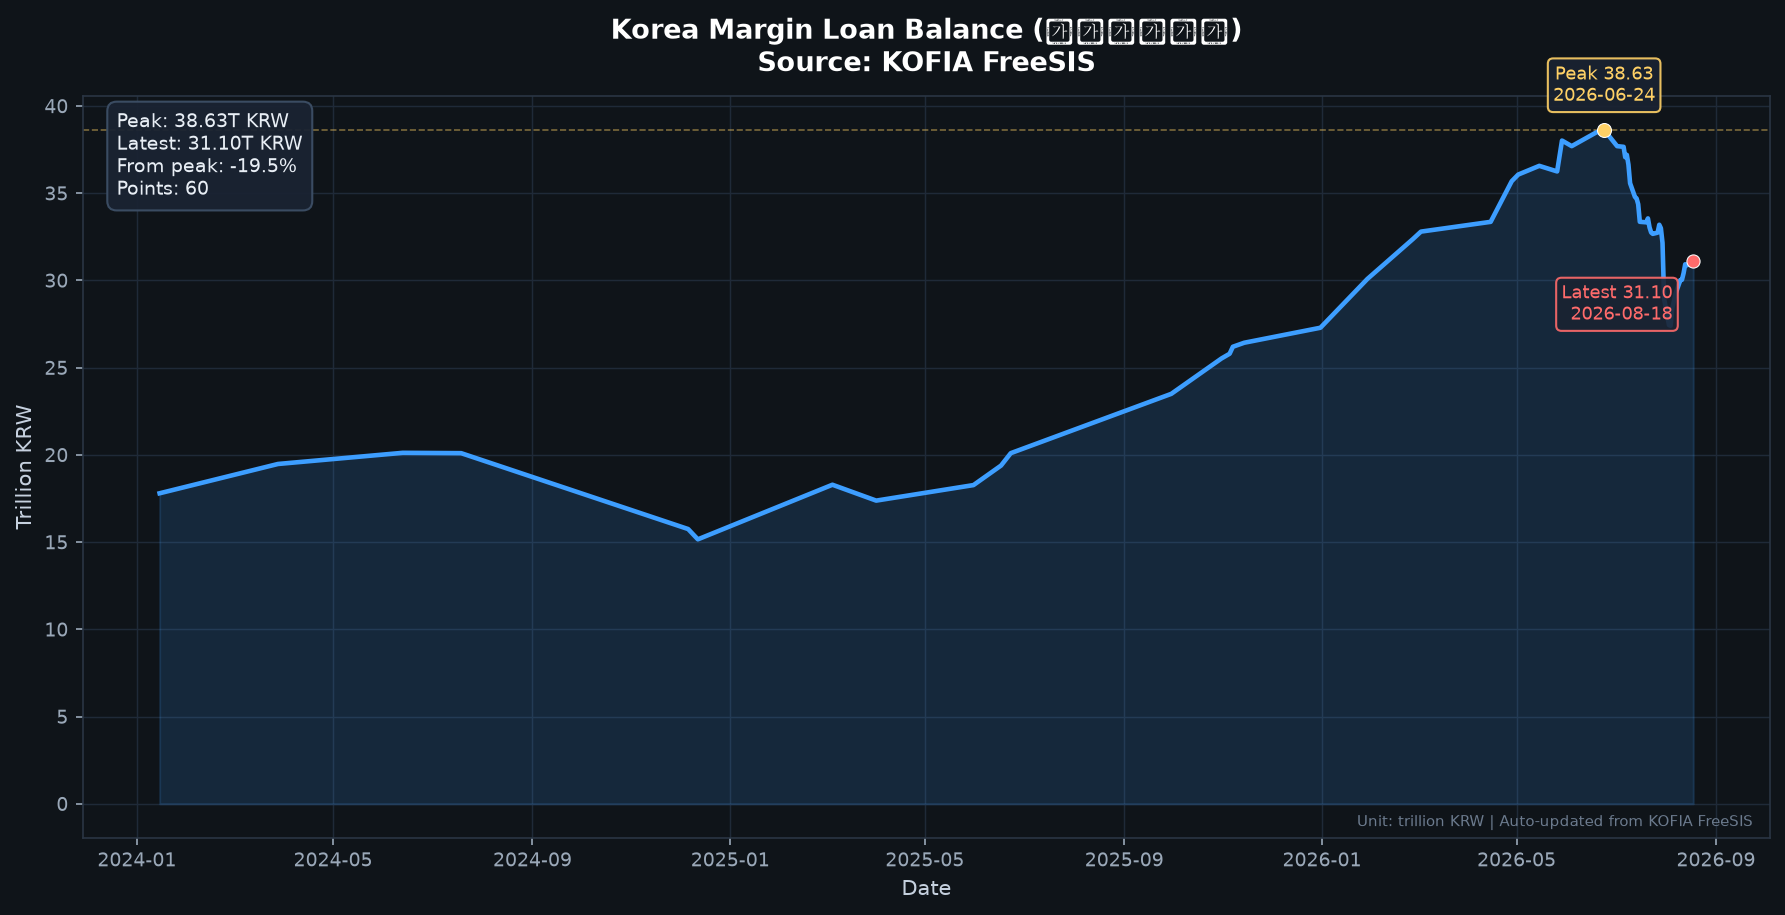
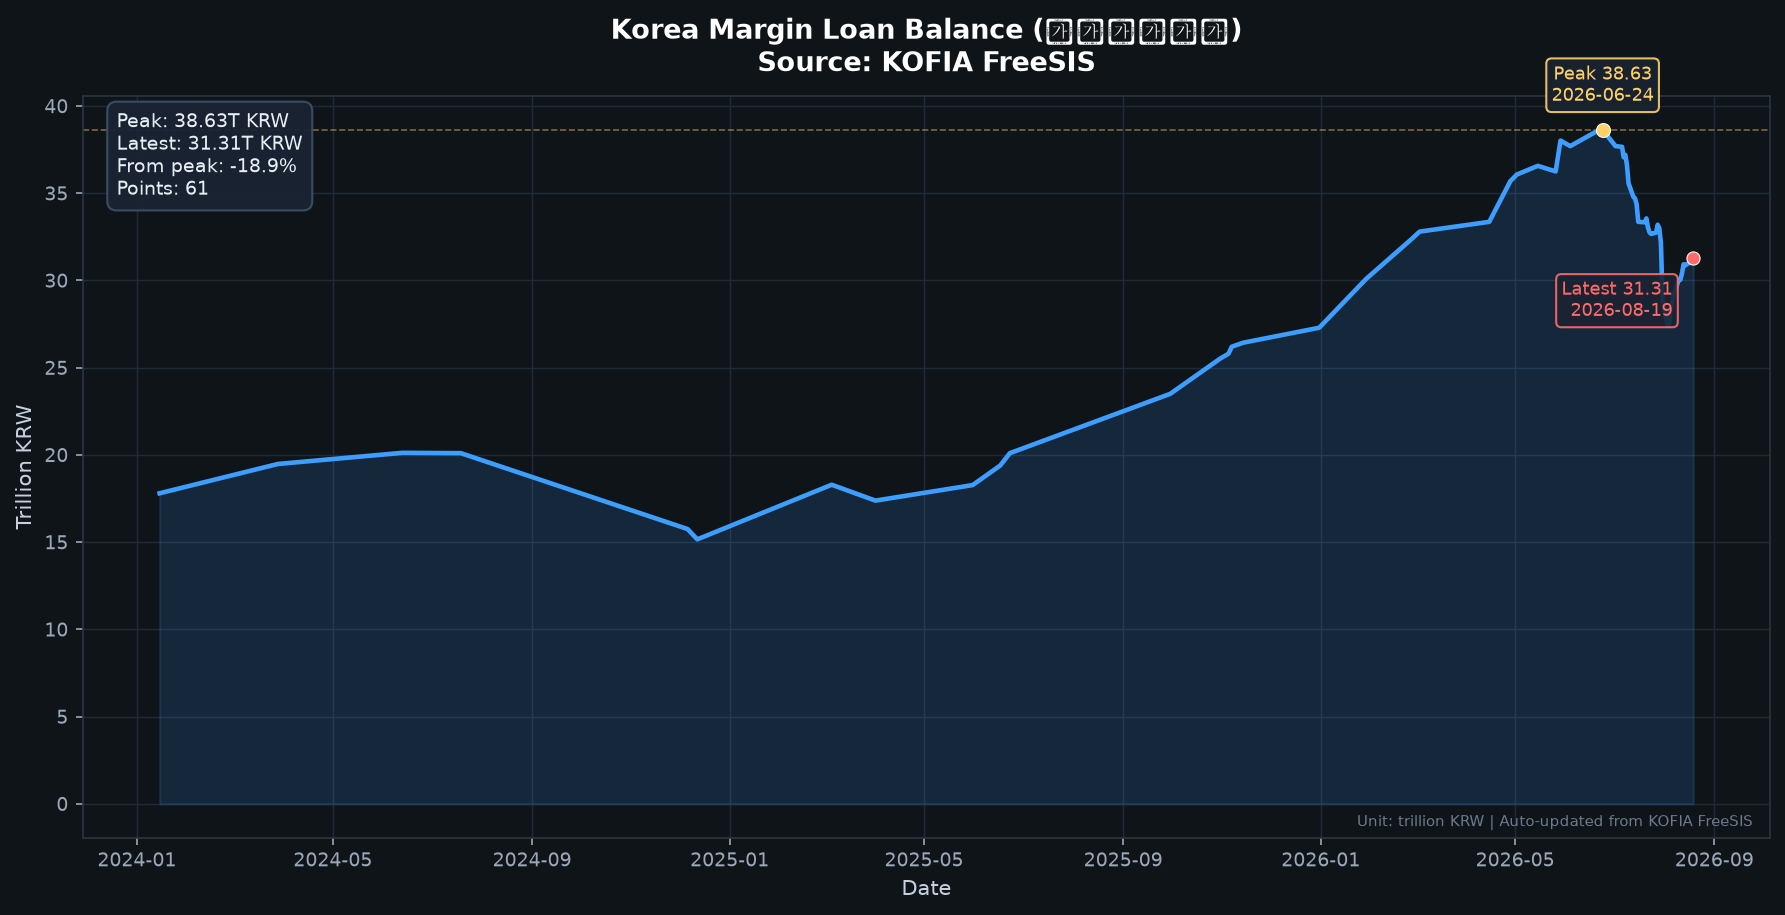
data: margin loan 31.312008T KRW as of 2026-08-19

diff --git a/README.md b/README.md
@@ -13,16 +13,16 @@
 <!-- LATEST:START -->
 | Field | Value |
 |---|---|
-| **As of** | `2026-08-18` |
-| **Margin loan (신용거래융자)** | **31.10 trillion KRW** |
-| **Day change** | `+0.24` trillion KRW |
-| **Securities-backed loan** | 25.19 T |
-| **Credit total** | 56.33 T |
-| **Investor deposits** | 104.76 T |
-| **Fetched at (UTC)** | `2026-08-20T02:16:45Z` |
+| **As of** | `2026-08-19` |
+| **Margin loan (신용거래융자)** | **31.31 trillion KRW** |
+| **Day change** | `+0.21` trillion KRW |
+| **Securities-backed loan** | 25.13 T |
+| **Credit total** | 56.47 T |
+| **Investor deposits** | 106.58 T |
+| **Fetched at (UTC)** | `2026-08-20T10:33:56Z` |
 <!-- LATEST:END -->
 
-![Margin loan chart](charts/margin_balance.png?v=20260818)
+![Margin loan chart](charts/margin_balance.png?v=20260819)
 
 原始数据：[`data/margin_balance.csv`](data/margin_balance.csv) · 最新快照：[`data/latest.json`](data/latest.json)
 
@@ -55,7 +55,7 @@ GitHub Actions 工作流：`.github/workflows/update.yml`
 每次成功拉取会：
 
 1. 合并最新约 15 个交易日数据进 CSV  
-2. 重绘 `charts/margin_balance.png?v=20260818`  
+2. 重绘 `charts/margin_balance.png?v=20260819`  
 3. 更新 README 最新快照表  
 4. 自动 commit / push（仅在有变化时）
 
